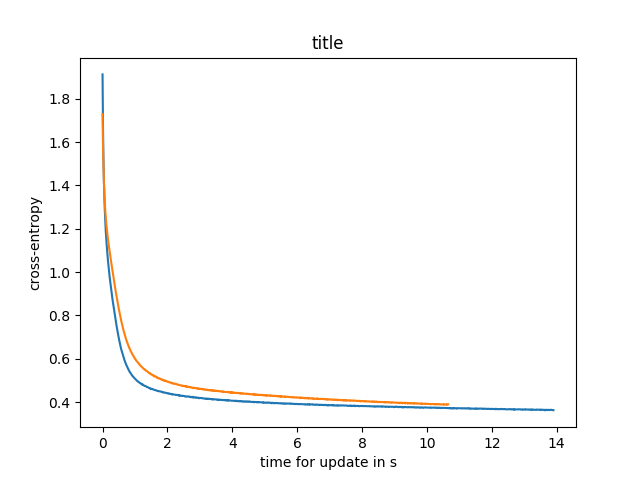
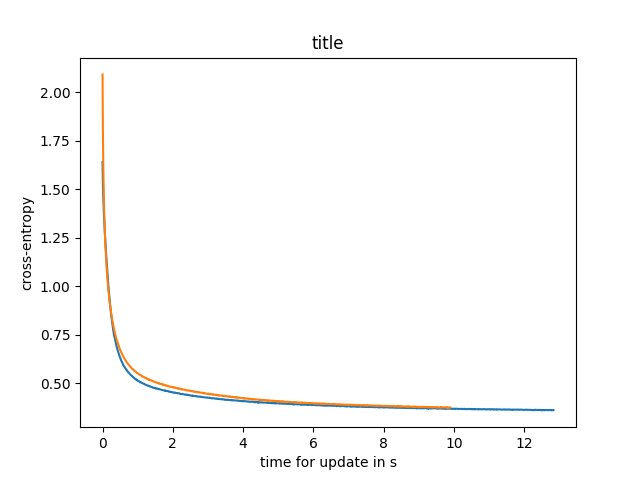
question 3 added

diff --git a/project_1/part_a/q3/main.py b/project_1/part_a/q3/main.py
@@ -1,0 +1,176 @@
+import numpy as np
+import theano
+import theano.tensor as T
+import matplotlib.pyplot as plt
+import time
+
+def init_bias(n = 1):
+    return(np.zeros(n))
+
+def create_bias(n = 1):
+    return(theano.shared(init_bias(n), theano.config.floatX))
+
+def init_weights(n_in=1, n_out=1, logistic=True):
+    W_values = np.asarray(
+        np.random.uniform(
+        low=-np.sqrt(6. / (n_in + n_out)),
+        high=np.sqrt(6. / (n_in + n_out)),
+        size=(n_in, n_out)),
+        dtype=theano.config.floatX
+        )
+    if logistic == True:
+        W_values *= 4
+    return W_values
+
+def create_weights(n_in=1, n_out=1, logistic=True):
+    W_values = init_weights(n_in, n_out, logistic)
+    return (theano.shared(value=W_values, name='W', borrow=True))
+
+# scale data
+def scale(X, X_min, X_max):
+    return (X - X_min)/(X_max-np.min(X, axis=0))
+
+#do scale 2, with standard dev and mean value
+def scaleN(X):
+    return (X - np.mean(X)) / np.std(X)
+# update parameters
+def sgd(cost, params, lr=0.01):
+    grads = T.grad(cost=cost, wrt=params)
+    updates = []
+    for p, g in zip(params, grads):
+        updates.append([p, p - g * lr])
+    return updates
+
+def shuffle_data (samples, labels):
+    idx = np.arange(samples.shape[0])
+    np.random.shuffle(idx)
+    #print  (samples.shape, labels.shape)
+    samples, labels = samples[idx], labels[idx]
+    return samples, labels
+
+decay = 1e-6
+learning_rate = 0.01
+epochs = 1000
+batch_size = 8
+# theano expressions
+X = T.matrix() #features
+Y = T.matrix() #output
+
+w1, b1 = create_weights(36, 10), create_bias(10) #weights and biases from input to hidden layer
+w2, b2 = create_weights(10, 6, logistic=False), create_bias(6) #weights and biases from hidden to output layer
+
+h1 = T.nnet.sigmoid(T.dot(X, w1) + b1)
+py = T.nnet.softmax(T.dot(h1, w2) + b2)
+
+y_x = T.argmax(py, axis=1)
+
+cost = T.mean(T.nnet.categorical_crossentropy(py, Y)) + decay*(T.sum(T.sqr(w1)+T.sum(T.sqr(w2))))
+params = [w1, b1, w2, b2]
+updates = sgd(cost, params, learning_rate)
+
+# compile
+train = theano.function(inputs=[X, Y], outputs=cost, updates=updates, allow_input_downcast=True)
+predict = theano.function(inputs=[X], outputs=y_x, allow_input_downcast=True)
+
+
+#read train data
+train_input = np.loadtxt('../../data/sat_train.txt',delimiter=' ')
+trainX, train_Y = train_input[:,:36], train_input[:,-1].astype(int)
+trainX_min, trainX_max = np.min(trainX, axis=0), np.max(trainX, axis=0)
+trainX = scaleN(trainX)
+#train X is the data matrix
+#this is the desired output
+train_Y[train_Y == 7] = 6
+trainY = np.zeros((train_Y.shape[0], 6))
+#this is the K matrix
+trainY[np.arange(train_Y.shape[0]), train_Y-1] = 1
+
+
+#read test data
+
+test_input = np.loadtxt('../../data/sat_test.txt',delimiter=' ')
+testX, test_Y = test_input[:,:36], test_input[:,-1].astype(int)
+
+testX_min, testX_max = np.min(testX, axis=0), np.max(testX, axis=0)
+testX = scaleN(testX)
+
+test_Y[test_Y == 7] = 6
+testY = np.zeros((test_Y.shape[0], 6))
+testY[np.arange(test_Y.shape[0]), test_Y-1] = 1
+
+print(trainX.shape, trainY.shape)
+print(testX.shape, testY.shape)
+
+# first, experiment with a small sample of data
+##trainX = trainX[:1000]
+##trainY = trainY[:1000]
+##testX = testX[-250:]
+##testY = testY[-250:]
+
+# train and test
+n = len(trainX)
+
+result = dict()
+result["test_accuracy"] = []
+result["train_cost"] = []
+result["time_update"] = []
+
+hidden_neruon_list = [5,10]
+
+for hidden_neruon in hidden_neruon_list:
+    test_accuracy = []
+    train_cost = []
+    t = time.time()
+    for i in range(epochs):
+        trainX, trainY = shuffle_data(trainX, trainY)
+        cost = 0.0
+
+        for start, end in zip(range(0, n, batch_size), range(batch_size, n, batch_size)):
+            cost += train(trainX[start:end], trainY[start:end])
+        train_cost.append(cost/(n // batch_size))
+
+        test_accuracy.append(np.mean(np.argmax(testY, axis=1) == predict(testX)))
+        # print(test_accuracy)
+
+
+    w1.set_value(init_weights(36, hidden_neruon))
+    b1.set_value(init_bias(hidden_neruon)) #weights and biases from input to hidden layer
+
+    w2.set_value(init_weights(hidden_neruon, 6, logistic=False))
+    b2.set_value(init_bias(6)) #weights and biases from hidden to output layer
+
+    result["test_accuracy"].append(test_accuracy)
+    result["train_cost"].append(train_cost)
+    result["time_update"].append(((time.time()-t))/epochs*np.arange(epochs))
+
+#print('%.1f accuracy at %d iterations'%(np.max(test_accuracy)*100, np.argmax(test_accuracy)+1))
+
+#result = np.mean(result, axis=0)
+#Plots
+plt.figure()
+for label, curve in zip(hidden_neruon_list, result["train_cost"]):
+    plt.plot(range(epochs), curve, label="hidden neurons size = " + str(label))
+plt.legend(loc = 'upper right')
+plt.xlabel('iterations')
+plt.ylabel('cross-entropy')
+plt.title('training cost')
+plt.savefig('p2a_sample_cost.png')
+
+plt.figure()
+for label, curve in zip(hidden_neruon_list, result["test_accuracy"]):
+    plt.plot(range(epochs), curve, label="hidden neurons size = " + str(label))
+plt.legend(loc = 'lower right')
+plt.xlabel('iterations')
+plt.ylabel('accuracy')
+plt.title('test accuracy')
+plt.savefig('p2a_sample_accuracy.png')
+
+plt.figure()
+for label, time, cost in zip(hidden_neruon_list, result["time_update"], result["train_cost"]):
+    plt.plot(time, cost, label="hidden neurons size = " + str(label))
+plt.xlabel('time for update in s')
+plt.ylabel('cross-entropy')
+plt.title('title')
+plt.savefig('p2b_time_update.png')
+
+plt.show()
